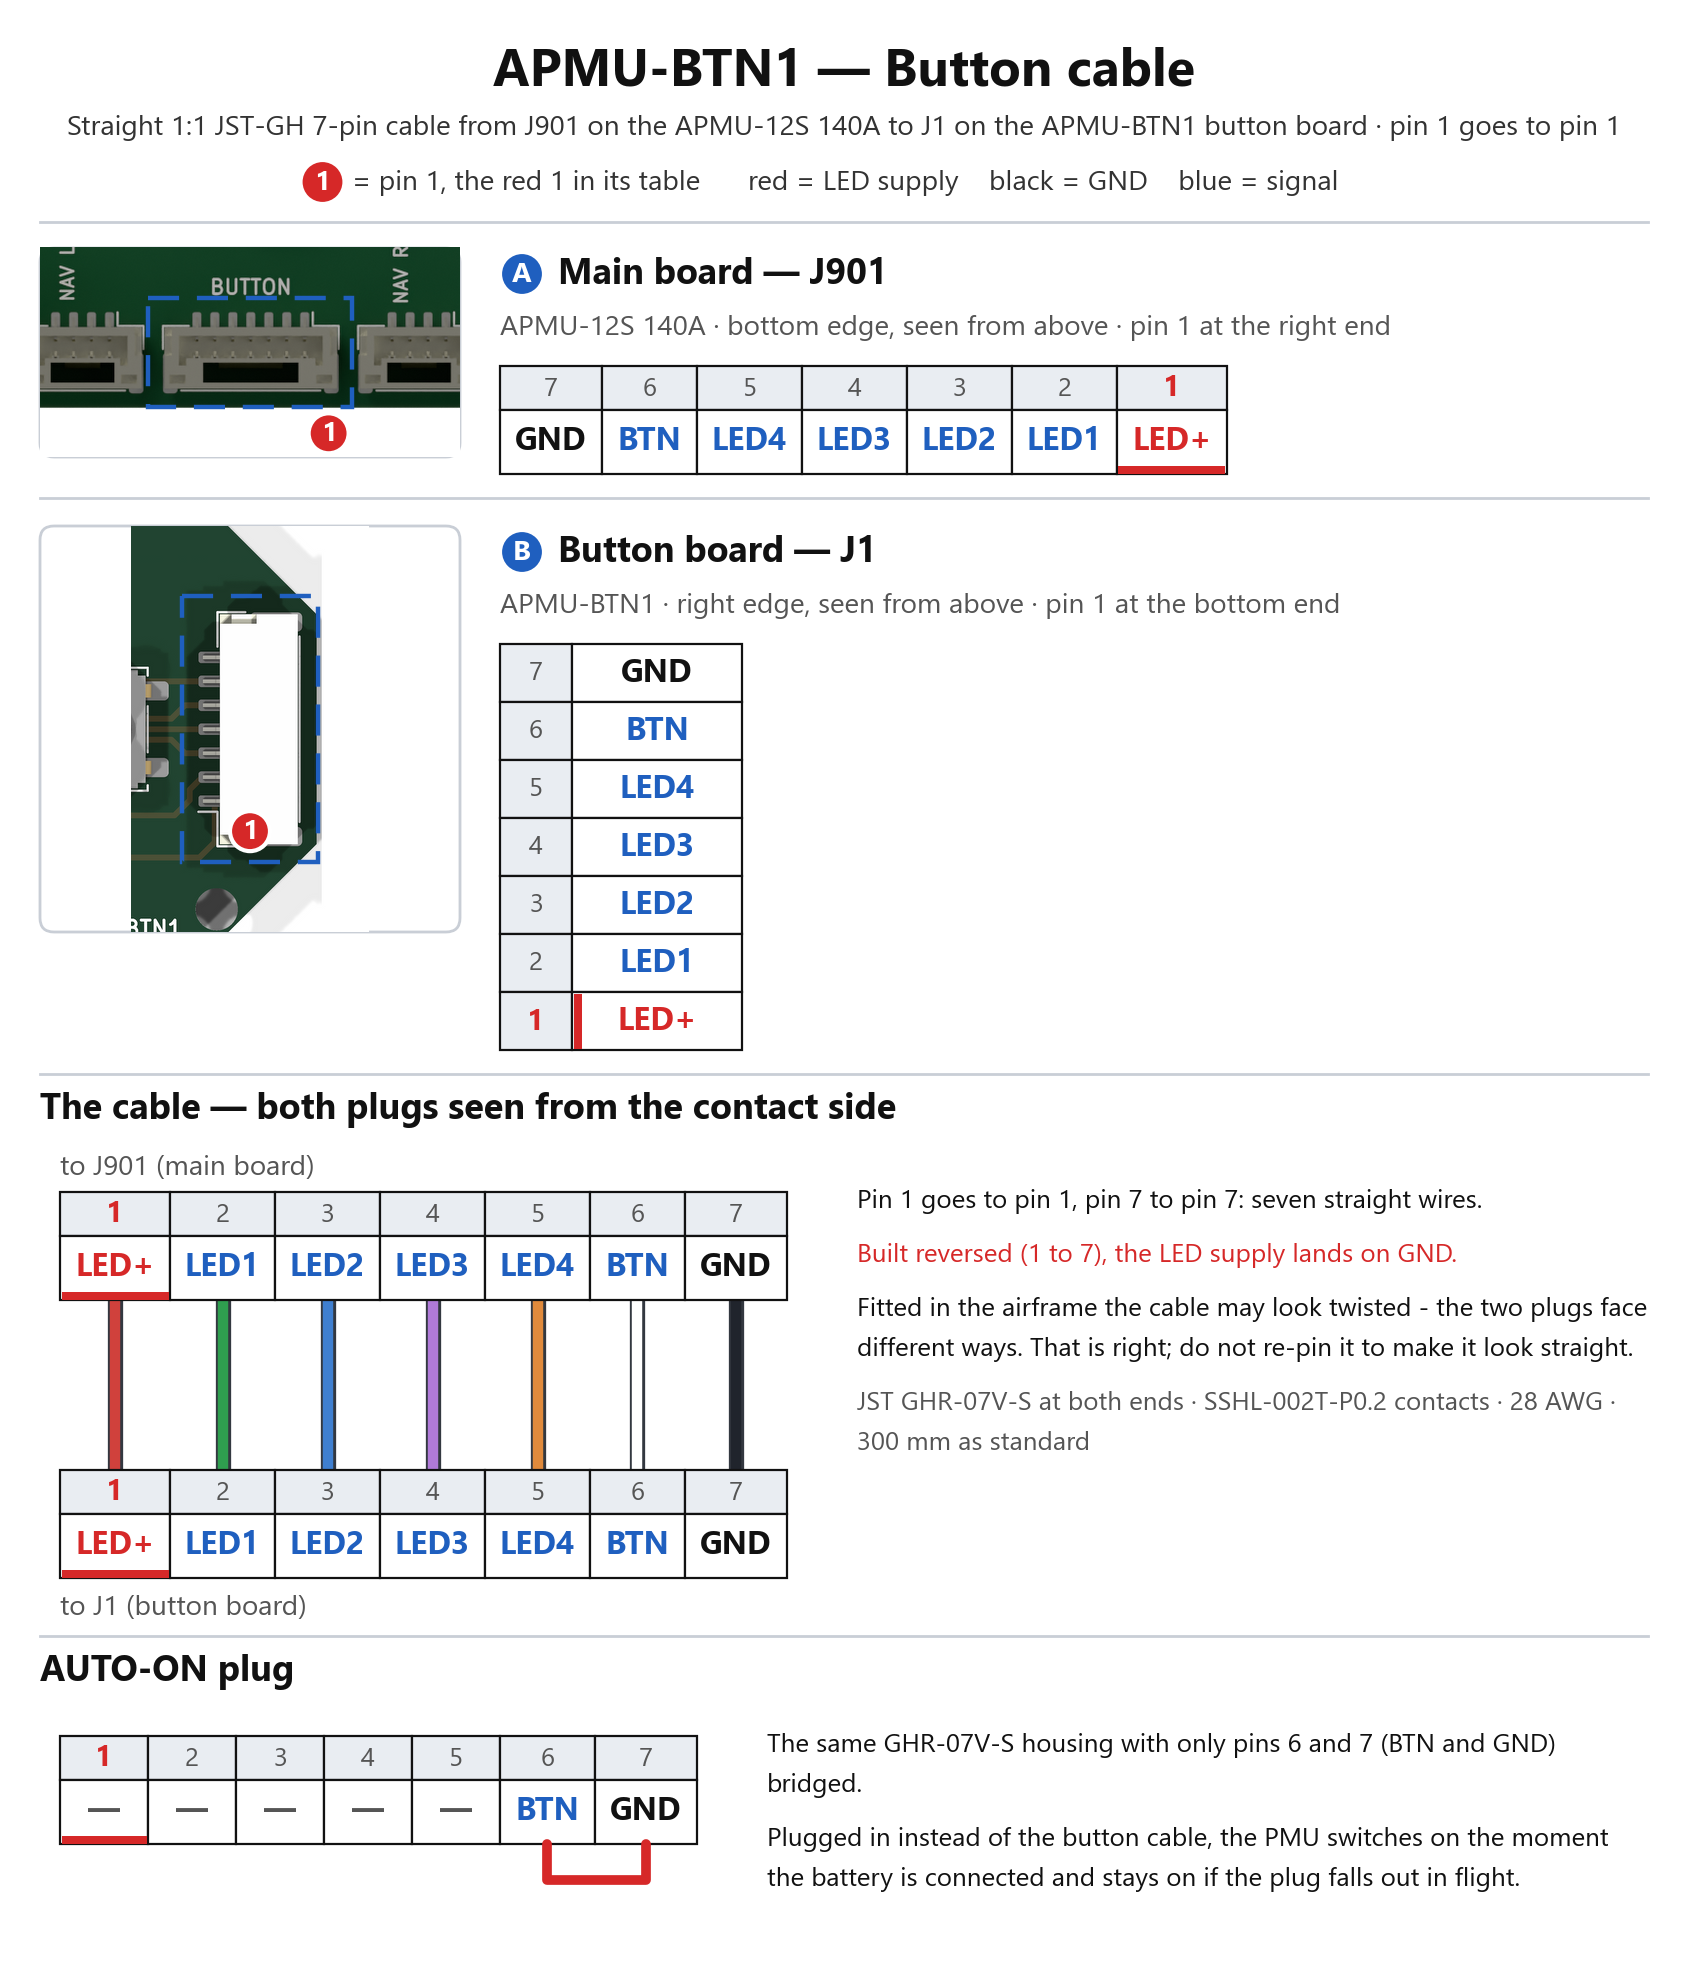
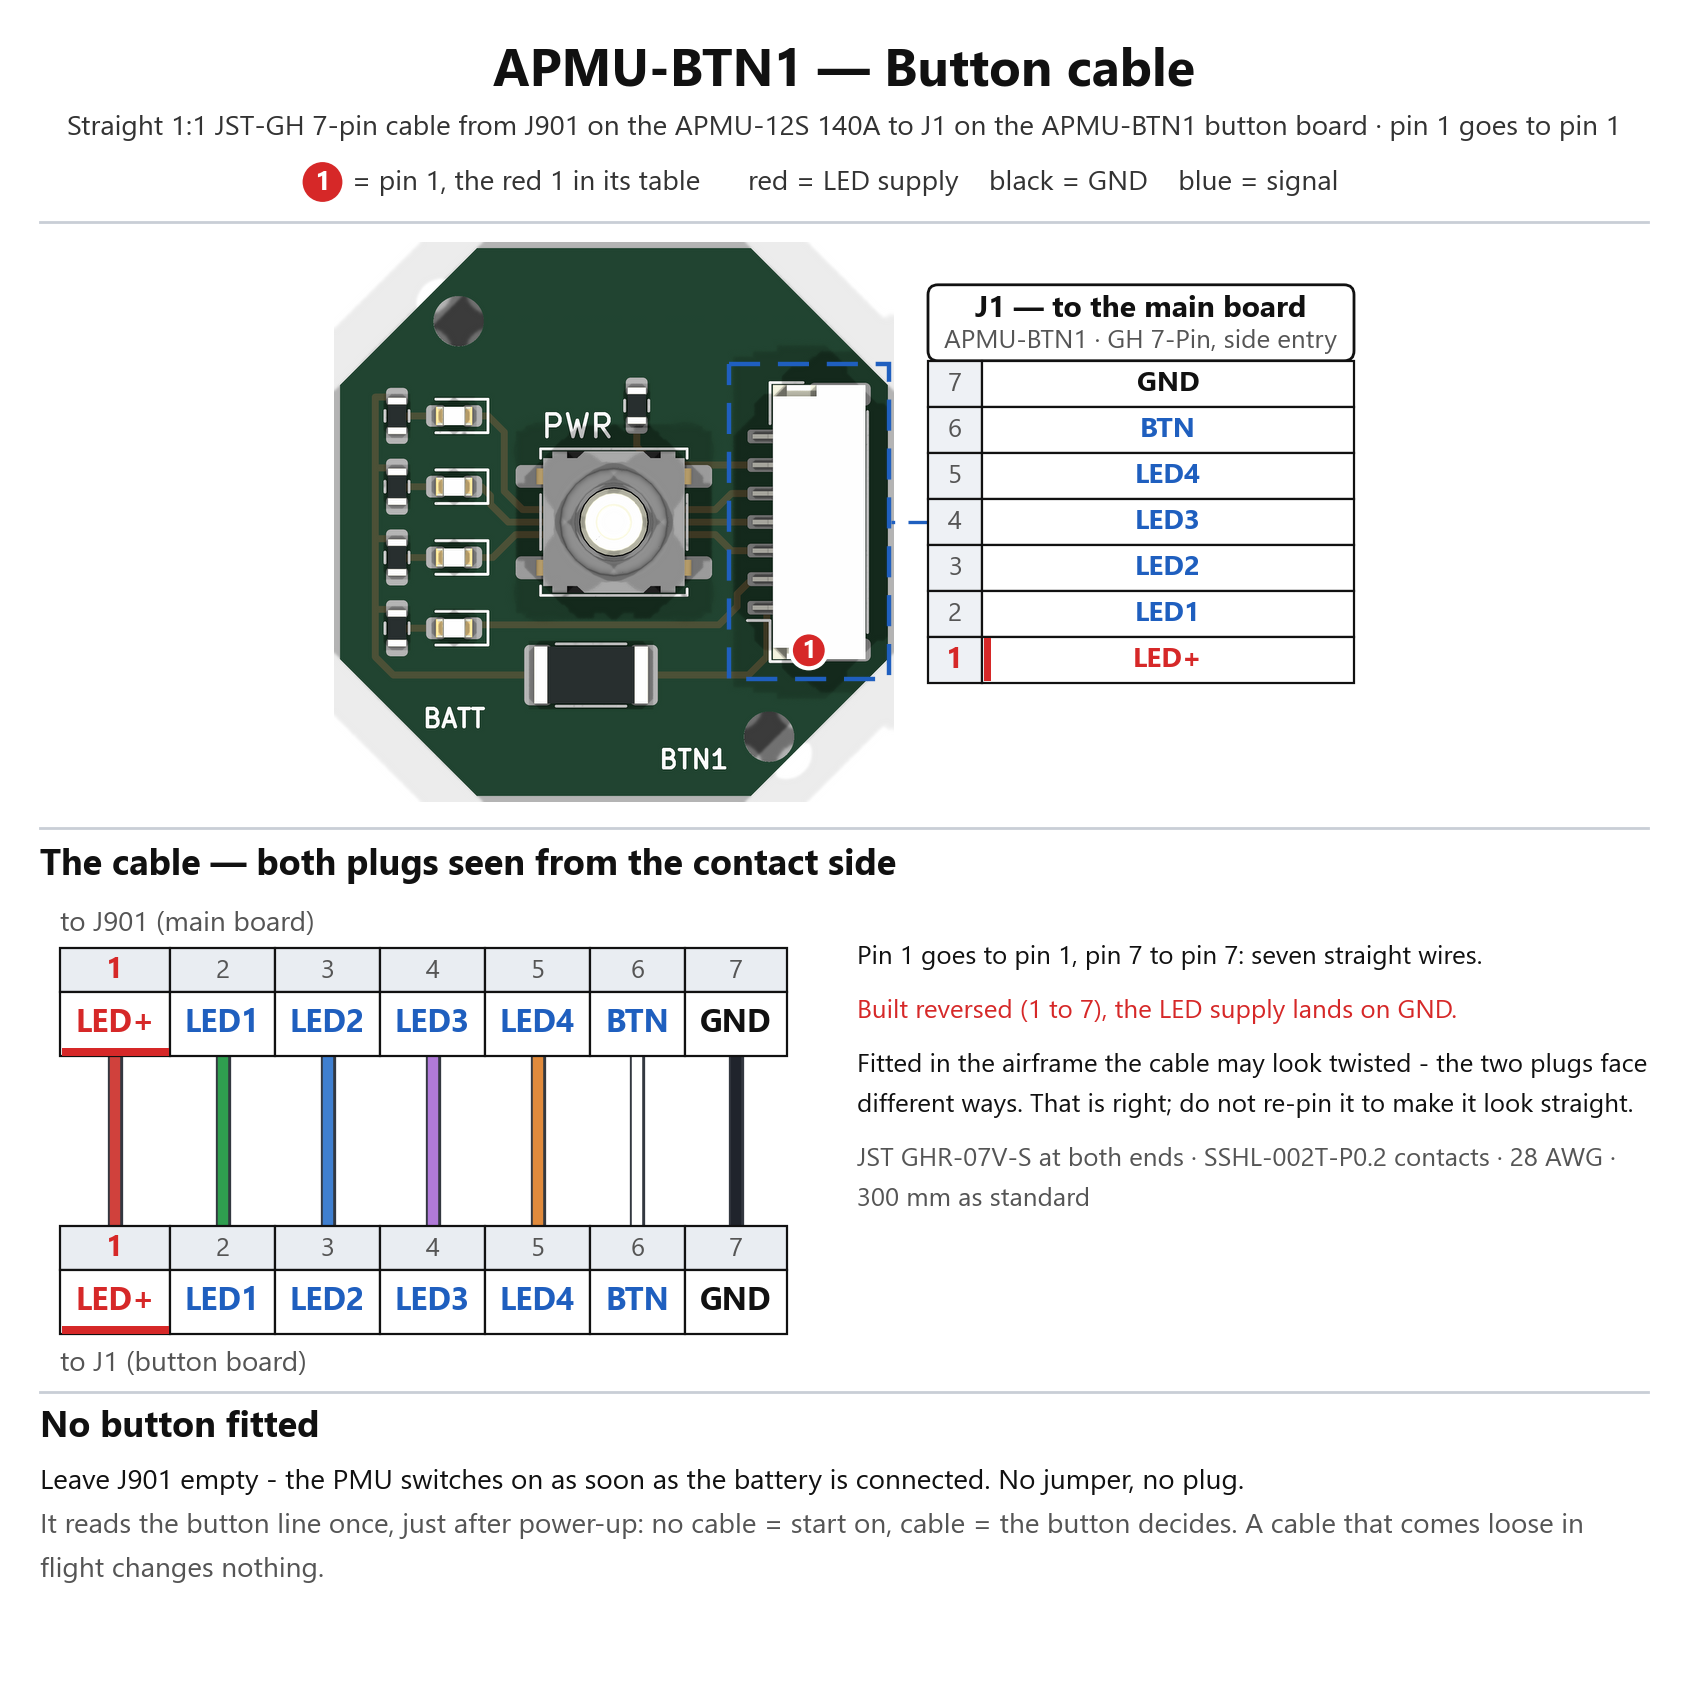
APMU-12S 140A: pinout and button cable back to one page in the original layout (photo with the tables around it, text 13 px or more on the page); with no button cable the PMU switches on with the battery, the AUTO-ON jumper is gone from the text and the pictures

Changed region(s): [[0.0, 0.0, 0.9858, 0.7411], [0.0308, 0.7102, 0.955, 0.9572]]

diff --git a/src/content/pmu/APMU-12S-140A.md b/src/content/pmu/APMU-12S-140A.md
@@ -20,7 +20,7 @@ specs:
   - { key: CAN Hub, value: "7× JST-GH 4P in parallel (5V · CAN_H · CAN_L · GND), passive — shares the flight controller's CAN bus · 5 V from the FC rail · 120 Ω termination by solder jumper JP301, open by default" }
   - { key: FC Power Port, value: "5 V, always on with the battery (TI LM5146, 4.5 A) · two Molex Micro-Lock Plus 6P ports in the AF-H7E POWER pin order: FC PWR1 (J301) with the INA228 on its I2C, FC PWR2 (J309) 5 V only, for the flight controller's second power input (pins 3–4 open) · 2.2 A per plug - Molex rates 2.2 A per circuit with AWG 26 and does not allow circuits to be added, and the flight controller takes one input at a time" }
   - { key: Digital Monitor, value: "TI INA228 20-bit on the FC port I2C, address 0x40 · 0.1 mΩ Vishay WSLP5931 shunt — ArduPilot BATT_MONITOR 21" }
-  - { key: Button & LEDs, value: "JST-GH 7P button / 4-LED cable: tap, then press and hold ~2 s to switch on or off · AUTO-ON plug (pins 6–7, BTN–GND, looped) switches on with the battery · the four state LEDs are Würth 150060GS75000 (0603, 525 nm, 3.2 V typical forward voltage - chosen high because the GreenPAK turns one off by driving its cathode to 3.3 V, and a low-forward-voltage LED kept glowing there; the datasheet gives no minimum, so staying dark is checked on the prototype); the whole sequencer, the LED bar, the precharge check and the navigation-light timing sit in ONE configured Renesas GreenPAK (SLG46826G) — settings in its NVM, still no microcontroller and no firmware" }
+  - { key: Button & LEDs, value: "JST-GH 7P button / 4-LED cable: tap, then press and hold ~2 s to switch on or off · with no button cable plugged in it switches on with the battery (no jumper) · the four state LEDs are Würth 150060GS75000 (0603, 525 nm, 3.2 V typical forward voltage - chosen high because the GreenPAK turns one off by driving its cathode to 3.3 V, and a low-forward-voltage LED kept glowing there; the datasheet gives no minimum, so staying dark is checked on the prototype); the whole sequencer, the LED bar, the precharge check and the navigation-light timing sit in ONE configured Renesas GreenPAK (SLG46826G) — settings in its NVM, still no microcontroller and no firmware" }
   - { key: Button Cable, value: "Straight 1:1 JST-GH 7P harness to the APMU-BTN1 button board — JST GHR-07V-S housing at both ends, SSHL-002T-P0.2 contacts, 28 AWG, 300 mm as standard. Pin 1 LED common (+), pins 2–5 the four LED cathodes, pin 6 the button contact, pin 7 GND; never a reversed harness. The board carries its own resistors (150 Ω common + 1 kΩ per LED) and a 6.8 kΩ that lets the main board tell 'no cable' from 'cable, not pressed' on the single button wire. The AUTO-ON plug is the same housing with only pins 6 and 7 bridged, and replaces the cable" }
   - { key: PCB, value: "200 × 100 mm · 4 layers · 2.0 mm · 3 oz outer / 2 oz inner · parts on the top only (bottom = heat-sink face) · 4× M3, 4 mm from the edges" }
   - { key: Validation Status, value: "Design stage - 278 parts (283 footprints with the two copper plates and three open-neck pads of the + path), placement only: routing is outsourced. Schematic verified in 3 consecutive identical passes (hash 5e1be37b66383ab5): 120 of 120 nets match the truth netlist pin for pin, every one of the 23 connectors has its pin order checked against the plug it mates with, ERC clean, no overlapping text, every part inside the 12S voltage rules with no waiver (312/312), and the Altium SchDoc re-imports to the same netlist. Board verified in 3 consecutive identical passes (hash 1a8d5a32f553ccb0) with 11 of 11 deliberate defects caught: KiCad DRC 0 errors, 0 schematic-parity differences, all 701 ratlines present, every part with its 3D model; the Altium PcbDoc carries the same pad nets pin for pin. Still to do: the GreenPAK configuration, the routing itself, and the thermal test" }
@@ -32,7 +32,7 @@ pinoutImages:
 pinoutNotes: |
   Figure 1 is the main board, figure 2 the button harness. Figure 2 is drawn from the two netlists, so the cable in
   it is the cable the boards expect: a straight 1:1 JST-GH 7P harness, GHR-07V-S housings and SSHL-002T-P0.2
-  contacts on 28 AWG, 300 mm as standard, and the AUTO-ON plug is the same housing with only pins 6 and 7 bridged.
+  contacts on 28 AWG, 300 mm as standard, and with no button cable at all the PMU switches on with the battery.
   Top view: the battery connector (AS150U) and the 24 V, 16 V and 7.4 V outputs on the top edge, the 12 V output on the left edge, two ESC outputs on each side and one at the bottom, next to the NAV LEFT, BUTTON, NAV RIGHT and NAV PWM plugs; the seven CAN plugs are at the top right beside the two FC power ports (FC PWR2, FC PWR1). On every XT connector the flat side of the housing is positive, as marked on the board (+ / −). The AUTO-ON plug is a JST-GH 7P housing with pins 6 and 7 (BTN and GND) looped: with it in place the unit switches on when the battery is connected, and pulling it out later changes nothing. Holding the button while connecting the battery also switches the unit on. Under each of the five XT90 housings (ESC1-ESC5) there is a pair of 5.3 mm holes marked + and -, 10.9 mm apart like the XT90 pins: if the XT90 is not fitted, the ESC wire is soldered straight into them. The battery input has the same pair under the AS150U, 18 mm apart.
 pinTable:
   - name: BATTERY IN
@@ -131,14 +131,14 @@ pinTable:
       - { pin: 6, signal: GND, function: "Ground" }
   - name: BUTTON
     type: JST-GH 7P (J901)
-    mapping: Power button and 4 LEDs — or the AUTO-ON plug (pins 6–7 looped)
+    mapping: Power button and 4 LEDs — left empty, the PMU switches on with the battery
     pins:
       - { pin: 1, signal: LED+, function: "LED common (+5 V) - the button board limits it with 150 Ω" }
       - { pin: 2, signal: LED1, function: "LED 1 cathode" }
       - { pin: 3, signal: LED2, function: "LED 2 cathode" }
       - { pin: 4, signal: LED3, function: "LED 3 cathode" }
       - { pin: 5, signal: LED4, function: "LED 4 cathode" }
-      - { pin: 6, signal: BTN, function: "Button to GND (loop to pin 7 = AUTO-ON)" }
+      - { pin: 6, signal: BTN, function: "Button to GND" }
       - { pin: 7, signal: GND, function: "Ground" }
 configParams:
   - { section: "POWER 1 port (INA228)", name: BATT_MONITOR, value: "21", note: "INA2xx I2C battery monitor" }
